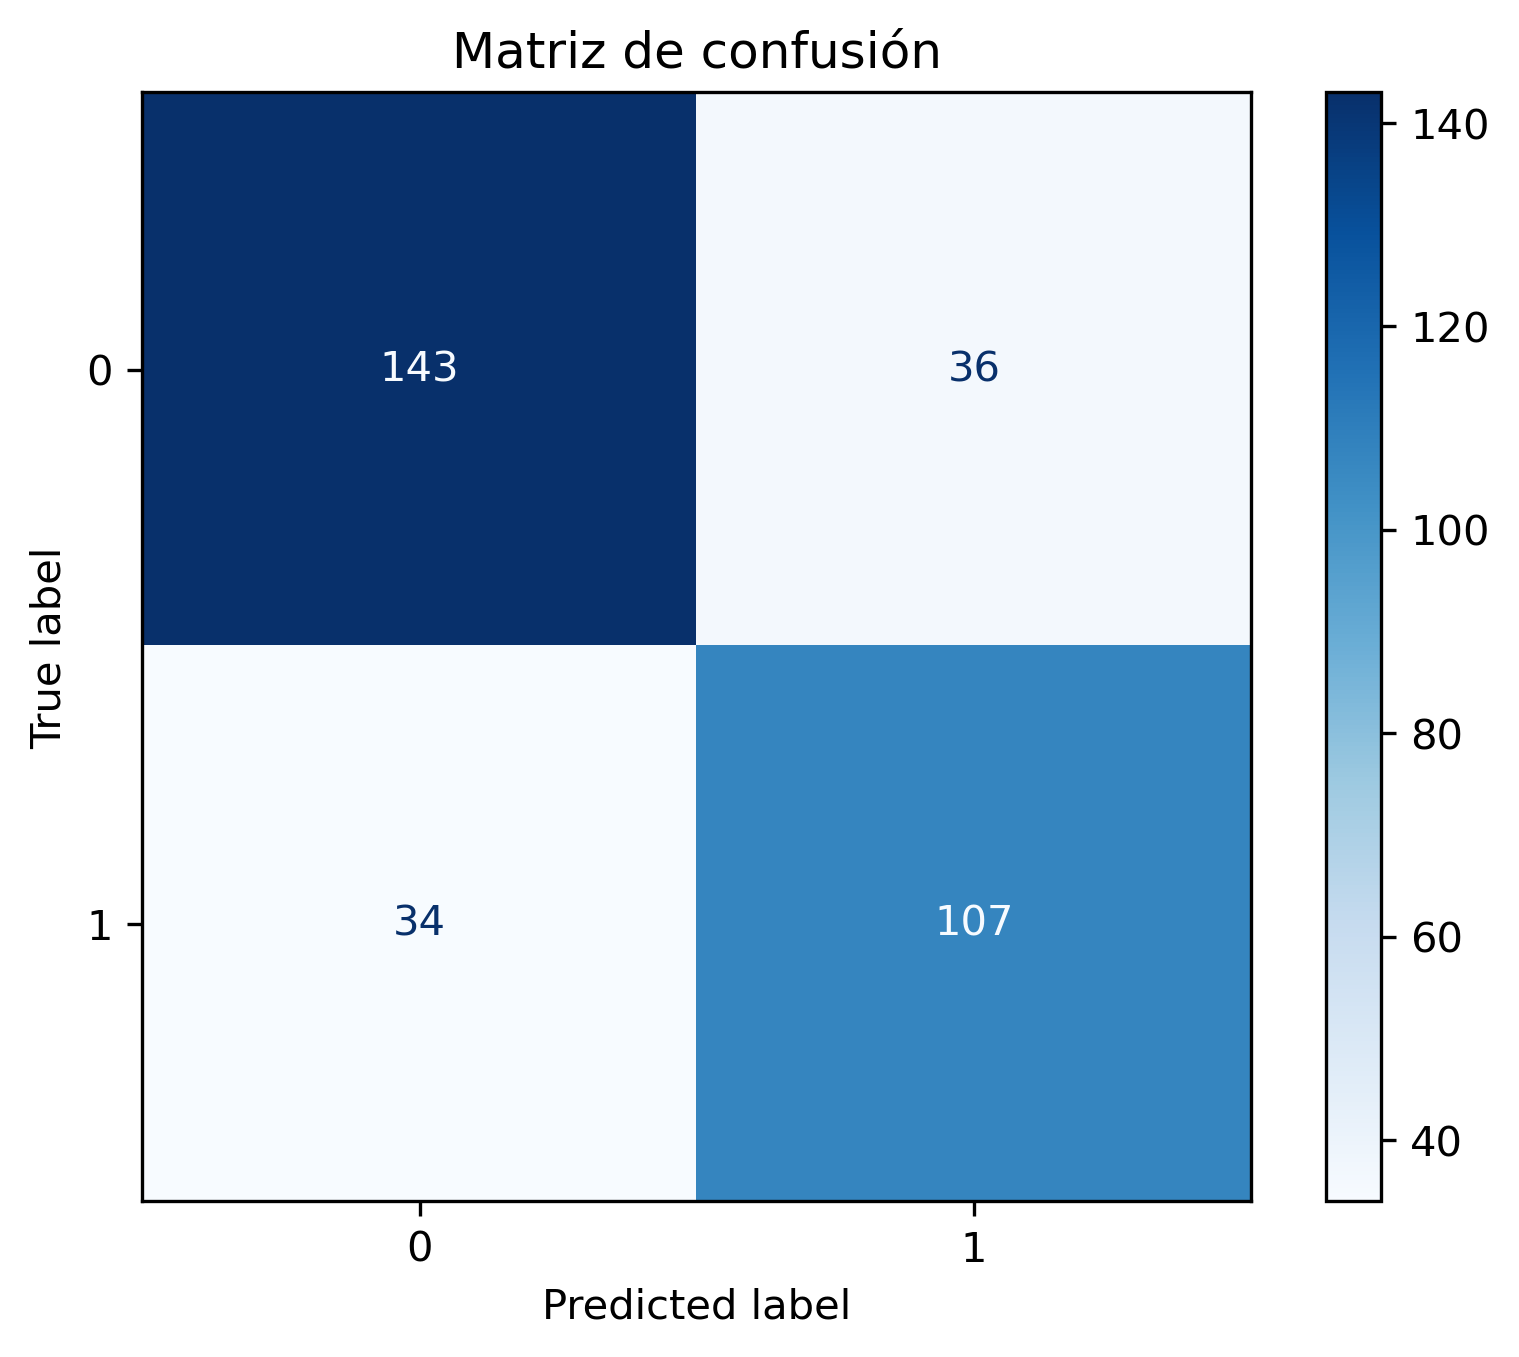
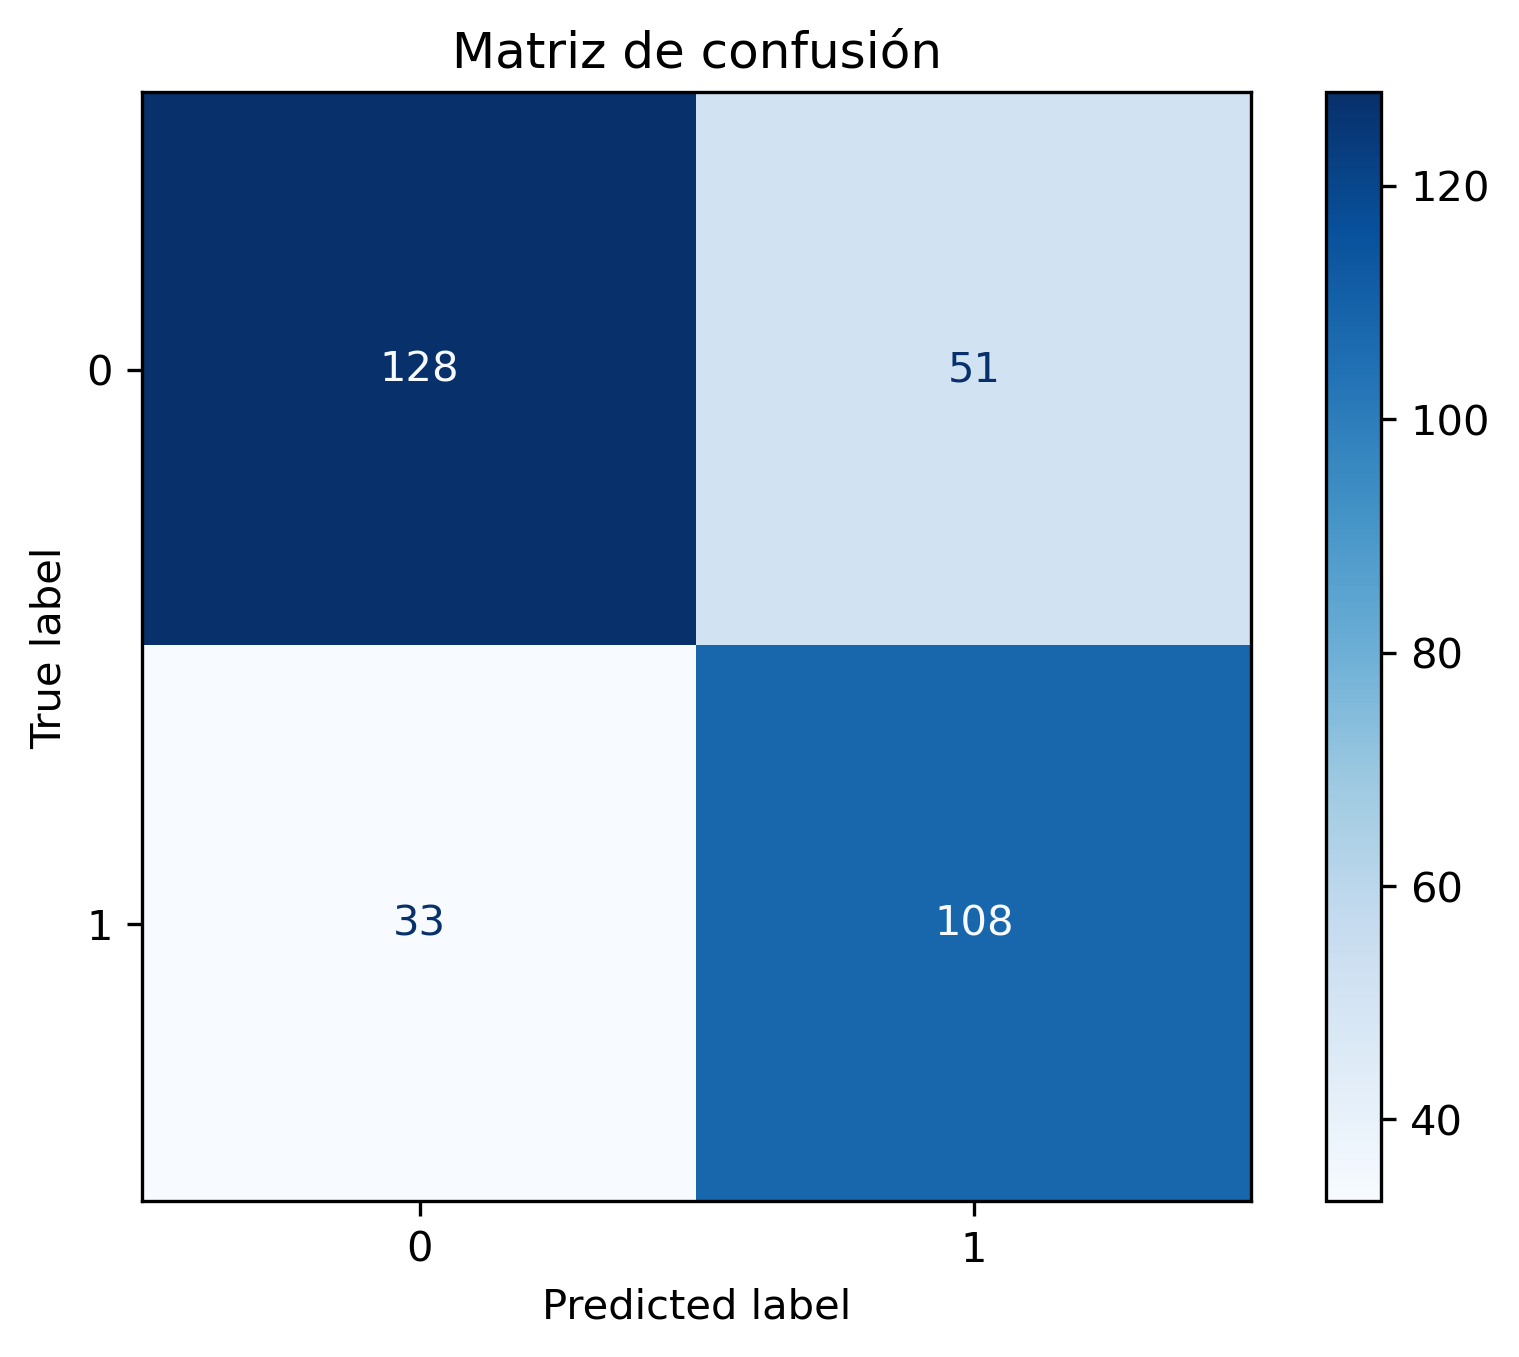
Agrega Modelos

diff --git a/core/modelos/modelo_LogRegReg.py b/core/modelos/modelo_LogRegReg.py
@@ -1,0 +1,77 @@
+# Librerías
+from sklearn.linear_model import LogisticRegression
+from sklearn.model_selection import cross_val_score, GridSearchCV
+from sklearn.metrics import classification_report, confusion_matrix
+
+# 9. **Regresión Logística con penalización L1, L2, o Elastic Net**
+class RegresionLogisticaRegularizada:
+    '''Implementacón con grilla de hiperparámetros'''
+    def __init__(self, X_train, X_test, y_train, y_test):
+        self.X_train=X_train
+        self.X_test=X_test
+        self.y_train=y_train
+        self.y_test=y_test
+        self.y_pred=None
+        self.rlr_model=None
+        self.grid_search=None
+        self.best_model=None
+        self.best_hiperparametros=None
+
+    def definir_modelo(self, penalty=['l1','l2','elasticnet'], C=[0.1, 1, 10], solver=['saga'], l1_ratio=[0.1, 0.5, 0.9] ,scoring='roc_auc', cv=None): # sin cv
+
+        '''Crea el modelo'''
+        self.rlr_model_model = LogisticRegression()
+        print("\nModelo definido!\n")
+        
+        '''Define la grilla'''
+        param_grid = {
+            'penalty': penalty,  # Penalización
+            'C': C,  # Costo
+            'solver': solver,  # Solver saga para soportar elasticnet
+            'l1_ratio': l1_ratio # Sólo para elasticnet
+            }
+        
+        self.grid_search = GridSearchCV(
+        estimator=self.rlr_model_model, 
+        param_grid=param_grid, 
+        scoring=scoring, 
+        cv=cv,  # Validación cruzada
+        verbose=1, 
+        n_jobs=-1
+        )
+    
+    def entrenar_modelo(self):
+        '''Entrena el modelo con la grilla'''
+        if self.grid_search is None:
+            raise ValueError("Se debe definir el modelo")
+        else:
+            self.grid_search.fit(self.X_train, self.y_train)
+
+        # Mejores hiperparámetros
+        self.best_hiperparametros=self.grid_search.best_params_
+
+        print("\nMejores hiperparámetros:\n")
+        print(self.best_hiperparametros)
+
+        print("\nModelo asignado!\n")
+        self.best_model = self.grid_search.best_estimator_
+
+    def reporte(self):
+        '''Reporte métricas'''
+        self.y_pred = self.best_model.predict(self.X_test)
+        print("\nReporte de clasificación mejor modelo:\n")
+        print(classification_report(self.y_test, self.y_pred))
+        return self.y_pred
+
+    def matriz_confusion(self):
+        '''Matriz de confusión'''
+        print("\nMatriz de confusión:\n")
+        print(confusion_matrix(self.y_test, self.y_pred))
+    
+    def predecir(self, X):
+        '''Predecir con el mejor modelo entrenado'''
+        if self.best_model is None:
+            raise ValueError("El modelo no ha sido entrenado")
+        else:
+            y = self.best_model.predict(X)
+        return y

diff --git a/main.py b/main.py
@@ -18,6 +18,7 @@ from core.modelos.modelo_rf import BosqueAleatorioClasificador
 from core.modelos.modelo_svm import SupportVectorMachineClasificador
 from core.modelos.modelo_GaussianNB import NaiveBayes
 from core.modelos.modelo_LogReg import RegresionLogistica
+from core.modelos.modelo_LogRegReg import RegresionLogisticaRegularizada
 from core.modelos.modelo_knn import KVecinosCercanos
 from core.modelos.modelo_arbol import ArbolClasificador
 from core.modelos.modelo_gbm import AumentoGradienteClasificador
@@ -298,6 +299,7 @@ y_pred=modelo_et.predecir(X_test)
 '''
 
 # Modelo ANN (ANN - Multilayer Perceptron)
+'''
 modelo_ann=AnnClasificador(X_train, X_test, y_train, y_test)
 
 hidden_layer_sizes=[(50,),(100,),(100,50),(50,25)] # Capas ocultas
@@ -310,6 +312,20 @@ cv=5
 modelo_ann.definir_modelo(hidden_layer_sizes, activation, solver, alpha, scoring, cv)
 modelo_ann.entrenar_modelo()
 y_pred=modelo_ann.predecir(X_test)
+'''
+# Regresión Logística Regularizada (l1, l2, Elasticnet)
+modelo_rlr=RegresionLogisticaRegularizada(X_train, X_test, y_train, y_test)
+
+penalty=['l1','l2','elasticnet']
+C=[0.1, 1, 10]
+solver=['saga']
+l1_ratio=[0.1, 0.6, 0.8] 
+scoring='f1'
+cv=5
+
+modelo_rlr.definir_modelo(penalty, C, solver, l1_ratio, scoring, cv)
+modelo_rlr.entrenar_modelo()
+y_pred=modelo_rlr.predecir(X_test)
 
 # Evaluación
 evaluacion=Evaluacion(y_test, y_pred)
